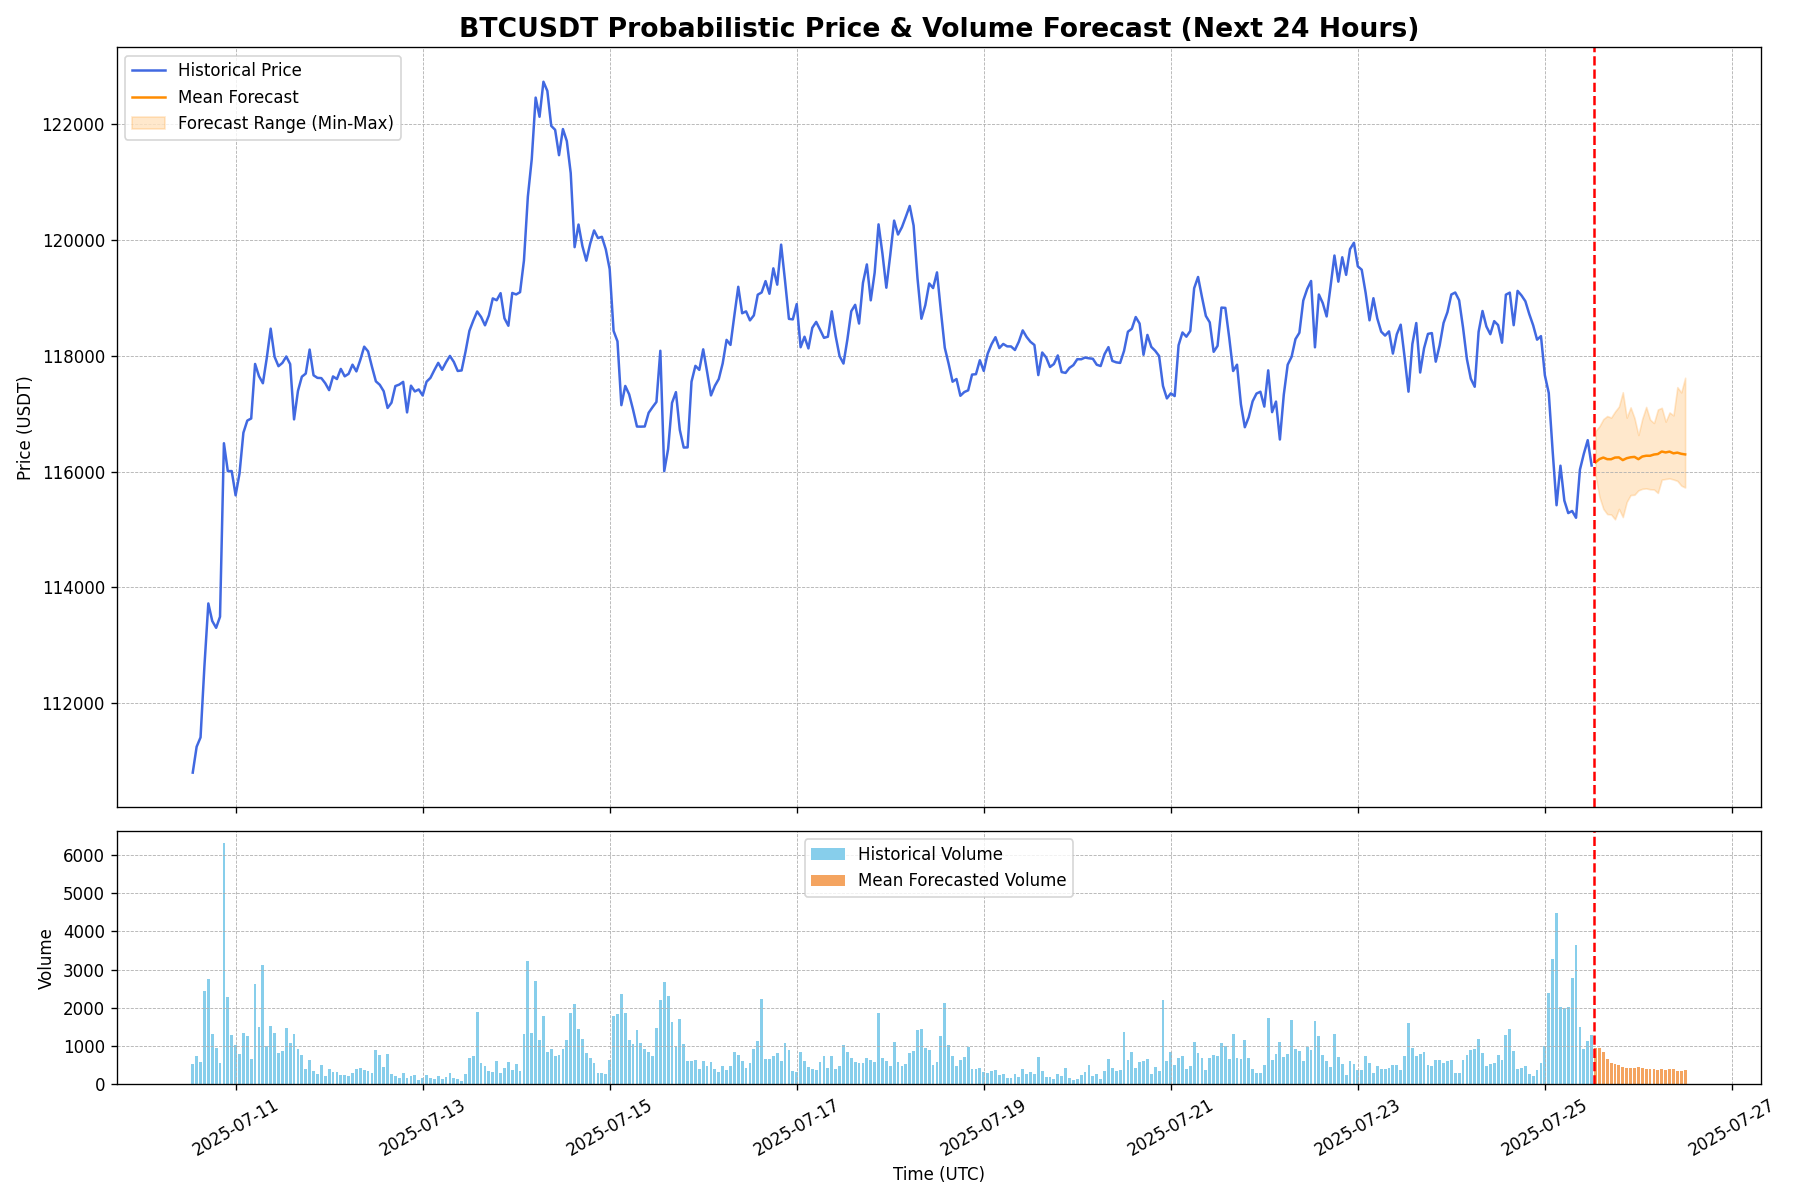
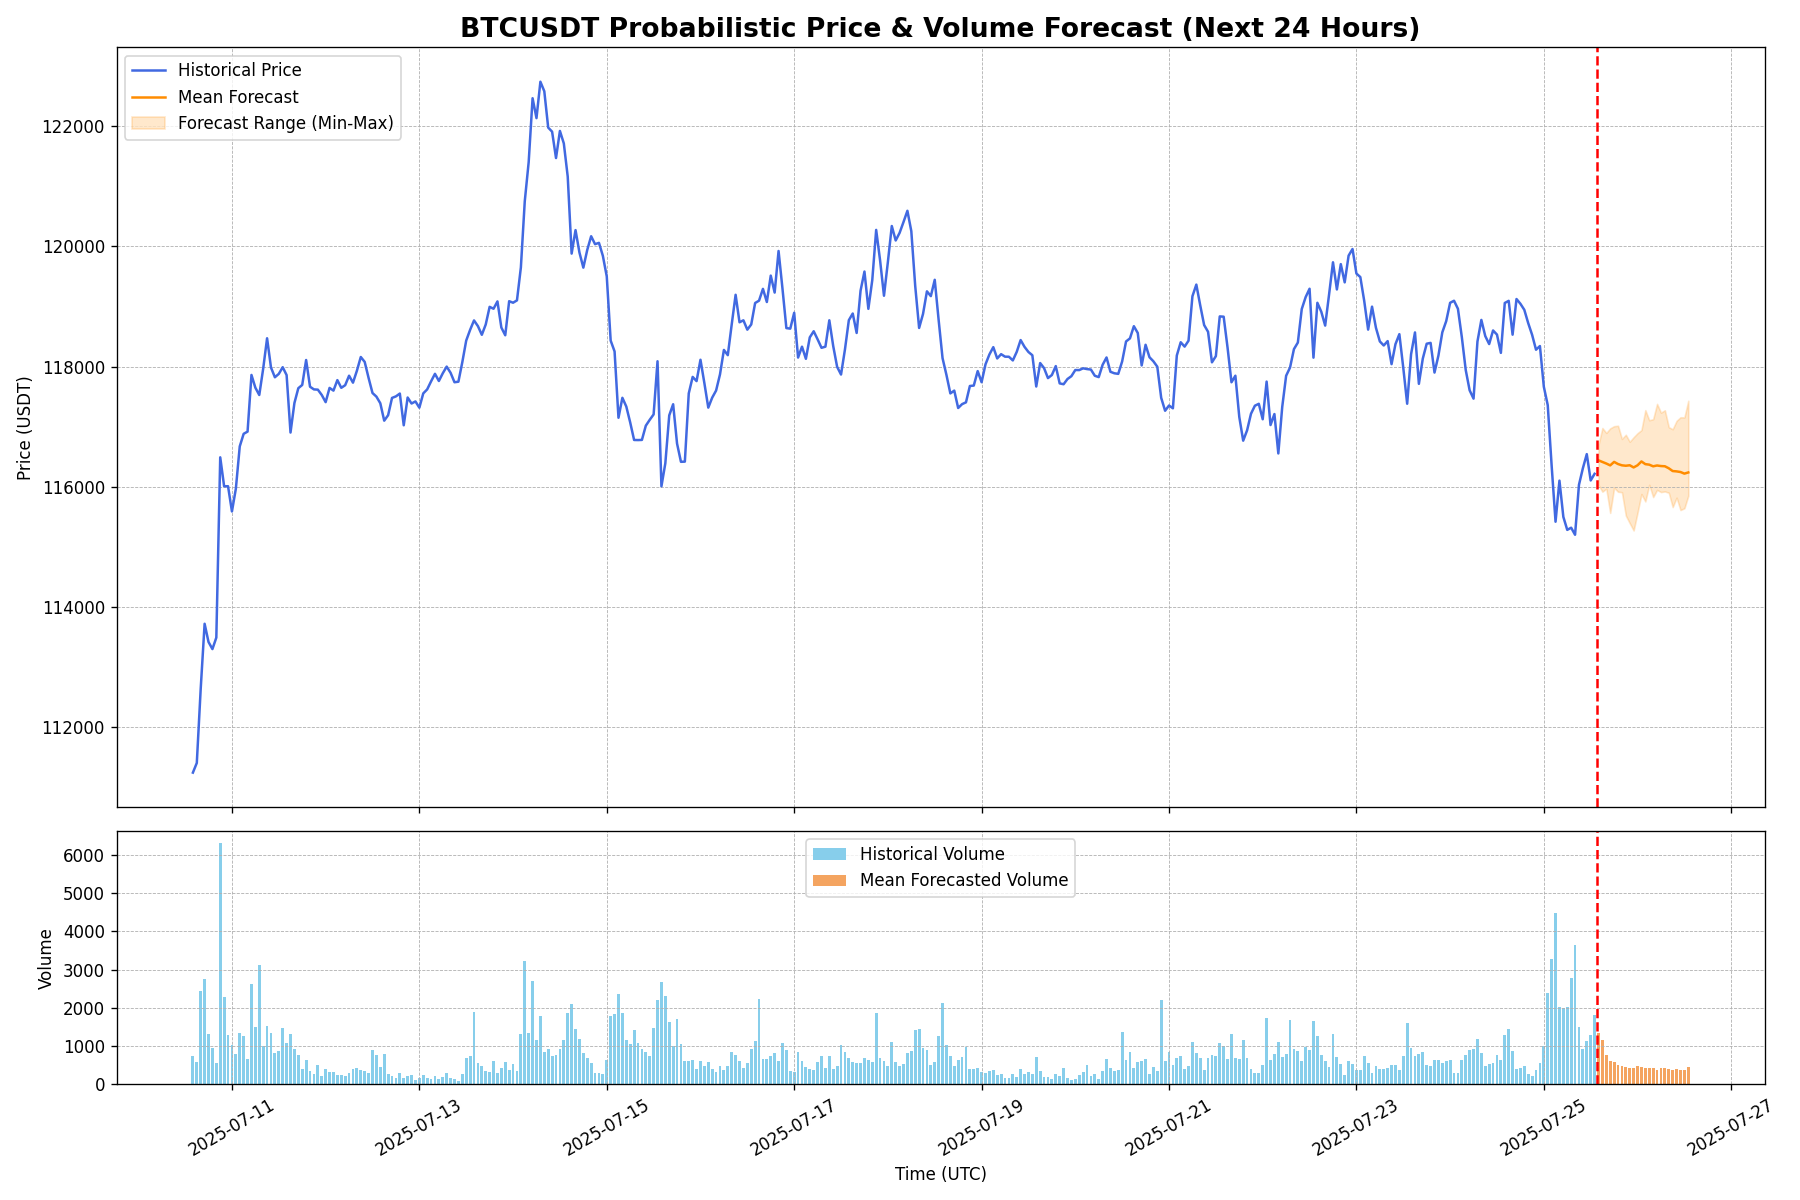
Auto-update forecast for 2025-07-25 14:06 UTC

diff --git a/index.html b/index.html
@@ -22,14 +22,14 @@
         <section id="live-dashboard">
             <h2>Live BTC/USDT Forecast Dashboard</h2>
             <div class="metadata">
-                <span>Last Updated (UTC): <strong id="update-time">2025-07-25 13:06:08</strong></span>
+                <span>Last Updated (UTC): <strong id="update-time">2025-07-25 14:06:03</strong></span>
                 <span>Data Source: Binance | Interval: 1-Hour</span>
             </div>
 
             <div class="metrics-container">
                 <div class="metric-card">
                     <h3>Upside Probability (Next 24h)</h3>
-                    <p class="metric-value" id="upside-prob">66.7%</p>
+                    <p class="metric-value" id="upside-prob">36.7%</p>
                     <div class="metric-desc">The model's confidence that the price in 24 hours will be higher than the last known price.</div>
                 </div>
                 <div class="metric-card">
